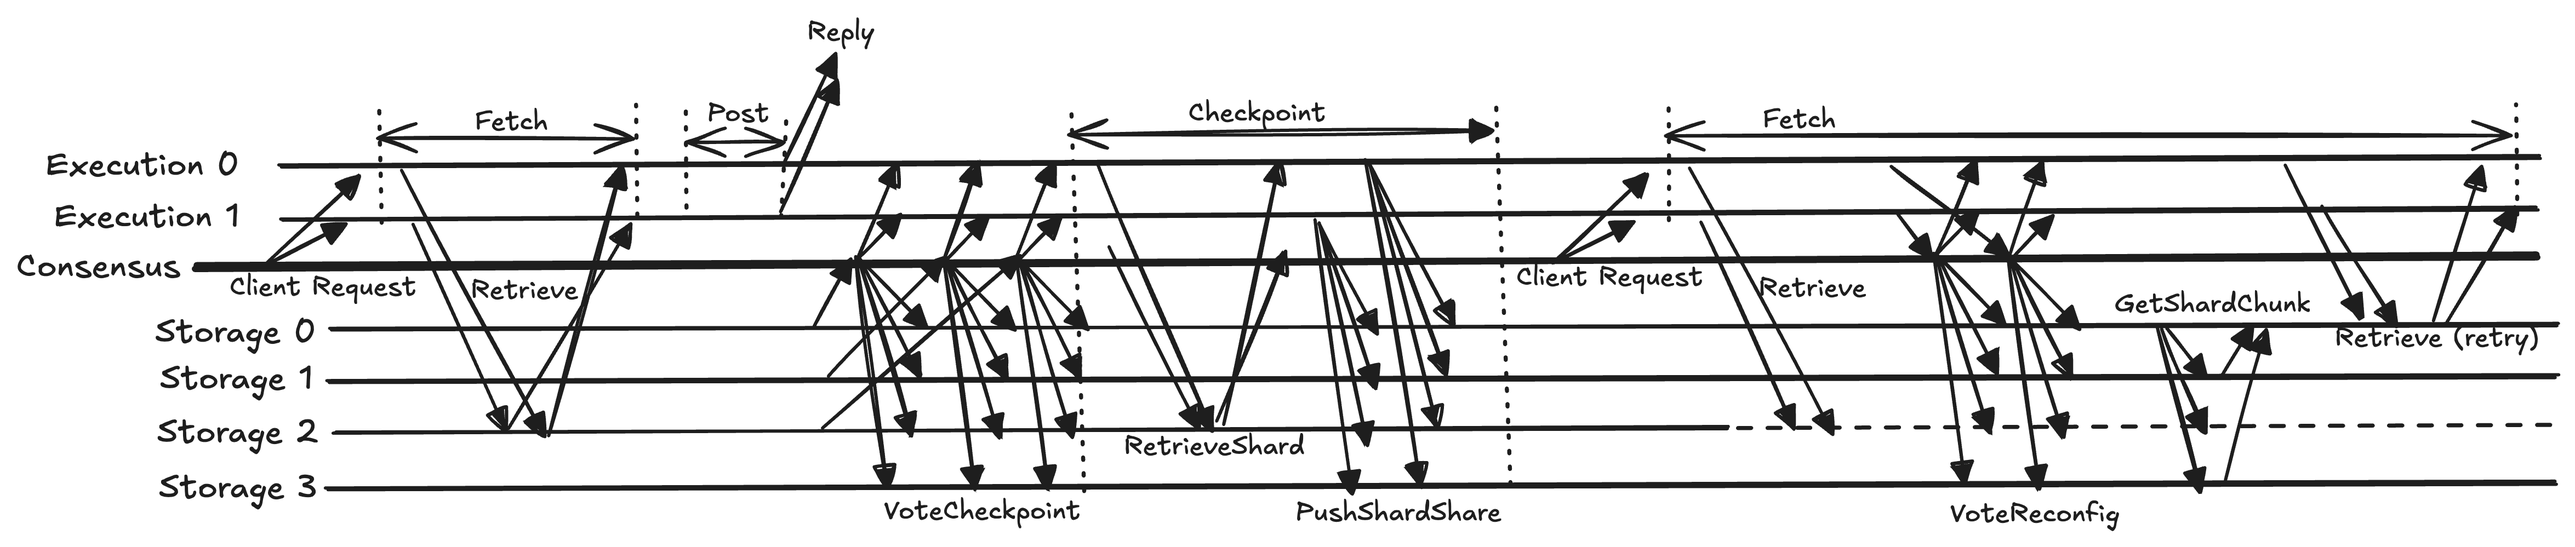
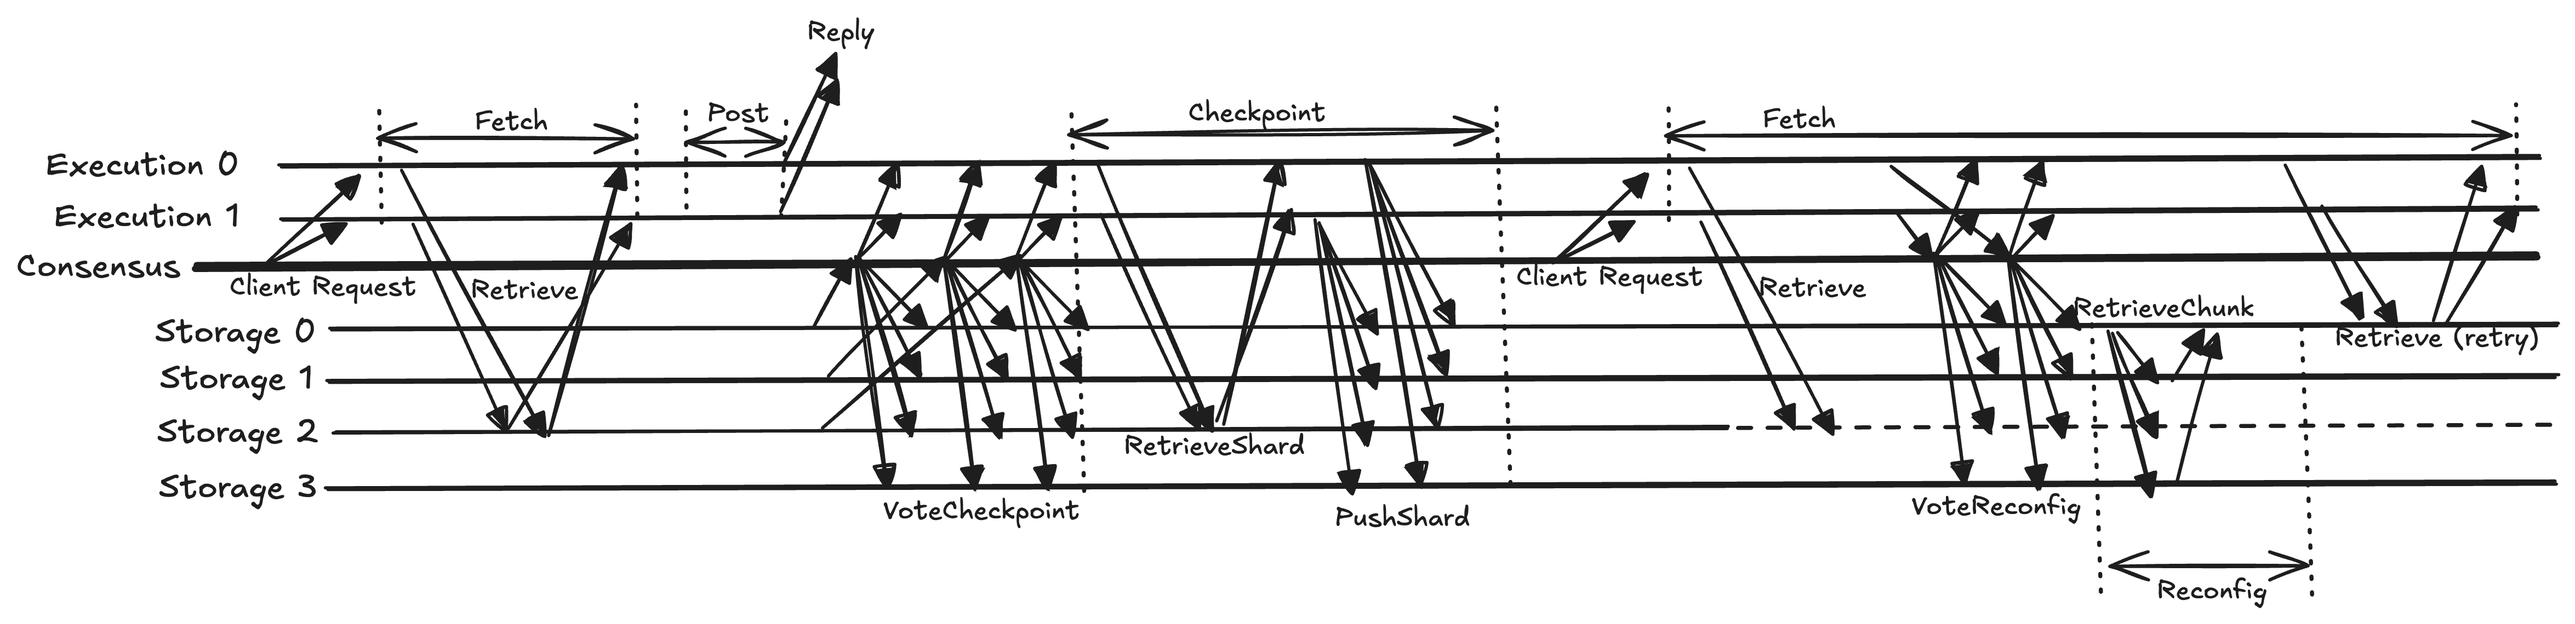
design: revise with merkle

Changed region(s): [[0.0, 0.031, 0.9943, 0.962]]

diff --git a/sections/design.tex b/sections/design.tex
@@ -15,16 +15,14 @@
 \toprule
 \textbf{Channel} & \textbf{Message} & \textbf{Data} \\
 \midrule
-\multirow{5}{*}{Replica to storage nodes RPC}
+\multirow{7}{*}{Storage nodes RPC}
     & \retrieve{} request   & round, key \\
-    & \retrieve{} response  & round, key, value, successor key, aggregated signature \\
+    & \retrieve{} response  & round, key, value, successor key, inclusion proof \\
     & \retrieves{} request  & round, shard ID \\
     & \retrieves{} response & round, shard ID, shard data \\
-    & \pushss{}             & round, shard ID, shard share data \\
-\addlinespace
-\multirow{1}{*}{Storage nodes peer RPC}
     & \getsc{} request      & round, shard ID \\
-    & \getsc{} response     & round, shard ID, storage node ID, shard chunk data \\
+    & \getsc{} response     & round, shard ID, storage node ID, chunk data \\
+    & \pushss{}             & round, shard ID, shard data \\
 \addlinespace
 \multirow{2}{*}{Atomic broadcast}
     & \votec{}              & round, storage node ID, shard hashes of previous round \\
@@ -37,13 +35,19 @@
 
 In this section, we detail the data structures and the algorithms of the replica and the storage nodes and the protocol between them.
 The messages used in the protocol are summarized in \autoref{tab:messages}.
-Every message contains a \emph{round} number, which indicates the checkpoint round the message belongs to.
-The round number starts from 0 at system startup and increments by one after each checkpoint round.
-The \voter messages also contain an \emph{epoch} number to indicate the number of reconfigurations that have happened, because reconfiguring to the same round may happen multiple times.
-The atomic broadcast messages are sent by submitting them as client transactions to the atomic broadcast protocol, which acts as an ordered message queue for the replica and storage nodes.
+The messages are categorized into two channels according to how they are delivered.
+The storage nodes RPC channel is unordered and unreliable point-to-point communication, and the storage nodes respond to the requests to serve and update their stored data.
+The \retrieve and \retrieves requests and \pushss are sent by the replica nodes, while the \getsc requests are sent by the peer storage nodes.
+
+The atomic broadcast channel is a reliable total order broadcast provided by the underlying BFT atomic broadcast protocol.
+The broadcast messages are sent by submitting them as client transactions to the atomic broadcast protocol.
 The \votec messages are published by the storage nodes while the \voter messages are published by the replica nodes.
 Both types of messages are subscribed by both the replica and storage nodes.
 The storage nodes can subscribe to the messages via relaying by their trusted replica nodes, i.e., the replica nodes hosted by their operators.
+
+Every message contains a \emph{round} number, which indicates the checkpoint round the message belongs to.
+The round number starts from 0 at system startup and increments by one after each checkpoint round.
+The \voter messages also contain an \emph{epoch} number to indicate the number of reconfigurations that have happened, because reconfiguring to the same round may happen multiple times.
 
 \subsection{Randomized Replication Scheme}
 
@@ -77,7 +81,7 @@ On \bump operations, the SMS records the updated keys and their new values in th
 On \fetch operations, the SMS first checks the update table for the requested key and return the value directly if found.
 If not found, it checks the cache and lastly resorts to sending \retrieve requests to the storage nodes on cache miss.
 The \retrieve requests are batched to reduce communication overhead.
-After getting the responses, the SMS verifies the values against the signatures, updates the cache, and returns the values to the execution layer.
+After getting the responses, the SMS verifies the values and proofs against the shard commitment, updates the cache, and returns the values to the execution layer.
 
 The SMS suspects liveness failure if the \retrieve requests are not (correctly) responded within a timeout.
 In this case, it increments the epoch and sends \voter messages with its current checkpoint round and a random nonce to the atomic broadcast protocol.
@@ -88,21 +92,22 @@ If $c'>c+1$, it returns \forward to the execution layer to skip to the version a
 It snapshots the update table before handling further \bump operations.
 It is crucial that the \votec messages are ordered respect to the client transactions to ensure consistent checkpointing across all replica nodes.
 Then, it sends \retrieves requests to the storage nodes to retrieve the shards at round $c'-1$ and verify them against the shard hashes in \votec messages.
-And then, SMS extracts the previous keys and values from the retrieved shards and apply the relevant updates in the update table snapshot to them.
-SMS then builds a shard share and \pushss it to the storage nodes.
-The update table snapshot is kept until the SMS pushes all the shard shares for round $c'$.
+And then, SMS applies the relevant updates in the update table snapshot to the retrieved shards.
+SMS then computes the new shard commitments and send \pushss messages with the new shards to the storage nodes.
+The update table snapshot is kept until the SMS pushes all the shards for round $c'$.
 
 When SMS collects $f+1$ \voter messages with matching epoch and round from distinct replica nodes, it reseeds the randomized placement scheme with the nonces and redirects the subsequent \retrieve requests to the new responsible storage nodes.
 
 \subsection{Storage Nodes}
 
 The storage nodes store for two checkpoints: the last completed one and the one being constructed for the current round.
-They respond to \retrieve and \retrieves requests by returning the requested values and shards from the last completed checkpoint.
+They respond to \retrieve and \retrieves requests by returning the requested values with their proofs and shards from the last completed checkpoint.
 If the requests are for a different round, they ignore them.
 
 The storage nodes send \votec messages for the next checkpoint round after finishing checkpointing all shards for the current round, and send \votec messages for round 0 at system startup.
 After receiving $2f+1$ \votec messages with matching shard hashes for round $c'$ greater than its current checkpoint round $c$, the storage node starts to checkpoint round $c'$.
-To checkpoint a shard, the storage node collects matching \pushss messages from $f+1$ replica nodes and constructs the shard by aggregating the signature shares.
+To checkpoint a shard, the storage node collects matching \pushss messages from $f+1$ replica nodes.
+Then it computes shard hash for the next \votec message, and it computes the internal hashes of the shard and caches them in memory for producing the proofs in \retrieve responses.
 Then it encodes the shard into $3f+1$ chunks and stores the chunk corresponding to itself.
 If the storage node is one of the responsible nodes of the shard according to the current placement, it also stores a full copy of the shard for retrieval.
 

diff --git a/macros.tex b/macros.tex
@@ -29,6 +29,6 @@
 \newcommand{\votec}{\textsc{VoteCheckpoint}\xspace}
 \newcommand{\retrieve}{\textsc{Retrieve}\xspace}
 \newcommand{\retrieves}{\textsc{RetrieveShard}\xspace}
-\newcommand{\pushss}{\textsc{PushShardShare}\xspace}
+\newcommand{\pushss}{\textsc{PushShard}\xspace}
 \newcommand{\voter}{\textsc{VoteReconfig}\xspace}
-\newcommand{\getsc}{\textsc{GetShardChunk}\xspace}
+\newcommand{\getsc}{\textsc{RetrieveChunk}\xspace}

diff --git a/sections/implementation.tex b/sections/implementation.tex
@@ -16,3 +16,7 @@ Therefore, $k$ should be chosen to balance these trade-offs based on the system 
 \subsection{Concurrent Pre-issued \fetch-es}
 
 As long as not cross checkpoint boundaries, multiple \fetch requests can be pre-issued and handled concurrently to improve throughput.
+
+\subsection{Replica local cache.}
+RocksDB style LRU cache at every replica node.
+Equivalent to RocksDB block cache of locally stored state.
